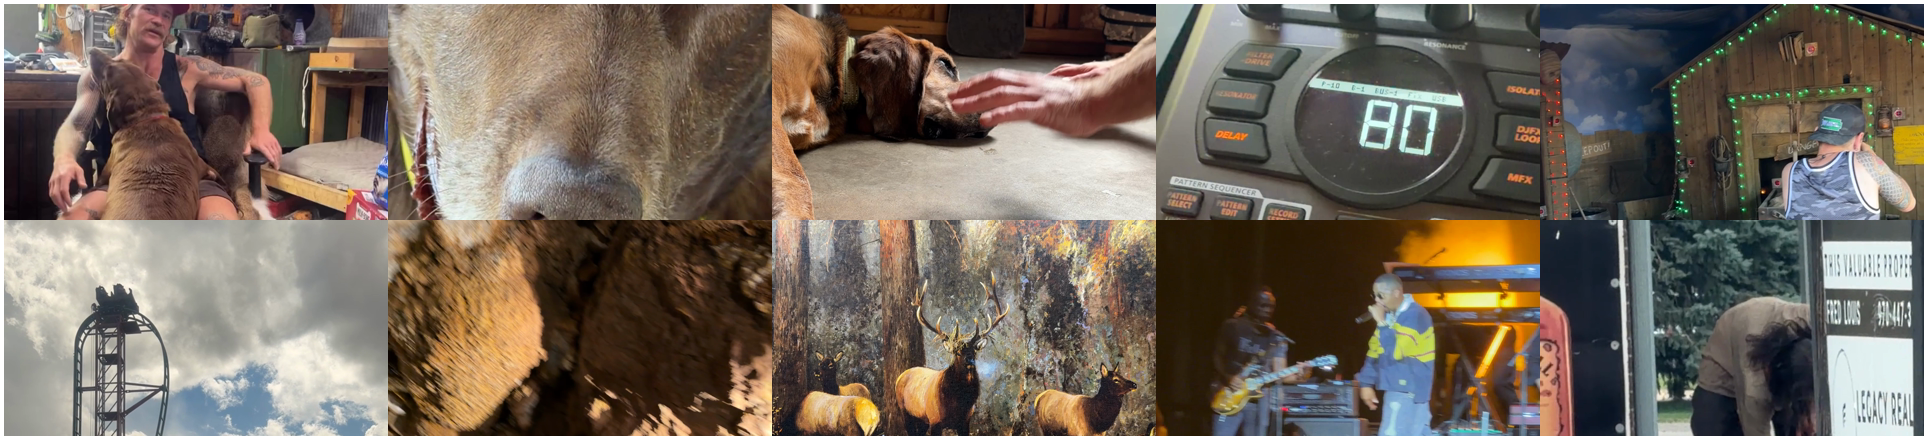
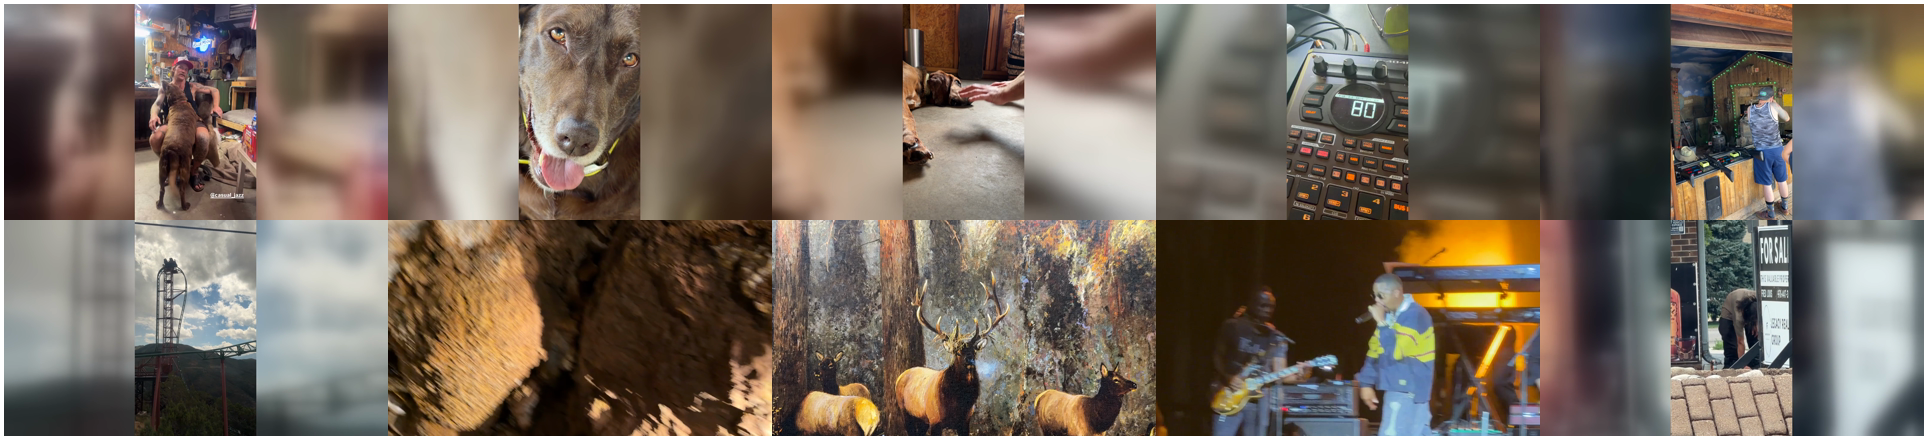
summer-reel: widescreen with the whole picture, nothing cropped; portrait clips full height, sides filled
Ryan: 'youre just cropping in the shots show the full video. start over with
the full video.' Third build. cuts.json loses y; build.py never crops.

Claude-Session: https://claude.ai/code/session_01DGLT2ecAgxNTMFMLk6kt7b

diff --git a/jobs/summer-reel/build.py b/jobs/summer-reel/build.py
@@ -3,17 +3,15 @@
 
     .venv/bin/python jobs/summer-reel/build.py [--no-compile] [--no-conform]
 
-Reads jobs/summer-reel/cuts.json ({source, start, beats, y, note} in cut order,
-start in SOURCE seconds, y the vertical centre of the 16:9 crop window for
-portrait sources, beats on the 80 BPM grid, even counts only so a beat
+Reads jobs/summer-reel/cuts.json ({source, start, beats, note} in cut order,
+start in SOURCE seconds, beats on the 80 BPM grid, even counts only so a beat
 pair is an integer 45 frames at 30 fps), conforms every used source to one
 widescreen 1280x720 30 fps H.264 stream with loudness-normalised audio, writes
 the Story IR to outputs/projects/summer-reel/story.json and compiles it.
 
-PRIOR ART: the conform is ffmpeg (scale/crop/fps/loudnorm); studio/bongpot.py
-normalize_clip does the same crop-to-fill for bongpot shots but always centres
-the window. This job needs the window placed per cut. Second film that wants
-it: move the conform into studio/ with the y parameter.
+PRIOR ART: the conform is ffmpeg (scale/gblur/overlay/fps/loudnorm).
+studio/bongpot.py normalize_clip crops to fill; this job must NOT crop.
+Second film that wants whole-picture-in-widescreen: move it into studio/.
 """
 import argparse
 import hashlib
@@ -37,17 +35,19 @@ FRAMES_PER_BEAT = FPS * 60 / BPM          # 22.5 at 30 fps, hence even beats onl
 TARGET_LUFS = -18.0
 
 
-def conform(src, dst, y=0.5):
-    """One 1280x720 widescreen stream, full frame. Landscape sources are
-    native; portrait sources scale to width and crop a 16:9 window whose
-    vertical centre is `y` (0 = top, 1 = bottom), set per cut in cuts.json so
-    the face, the dog or the coaster car stays in frame. Ryan, 2026-09-09:
-    "the one where it's long that goes across the entire screen."
-    Audio to -18 LUFS."""
-    vf = (f"scale={W}:{H}:force_original_aspect_ratio=increase,"
-          f"crop={W}:{H}:(iw-ow)/2:(ih-oh)*{y},fps=30,setsar=1")
+def conform(src, dst):
+    """One 1280x720 widescreen stream showing the WHOLE source picture.
+    Landscape sources are native. Portrait sources stand at full height in
+    the middle, the sides filled with a blurred stretch of the same frame.
+    Nothing is cropped (Ryan, 2026-09-09: "youre just cropping in the shots
+    show the full video. start over with the full video"). Audio to -18 LUFS."""
+    vf = (f"split[bg][fg];"
+          f"[bg]scale={W}:{H}:force_original_aspect_ratio=increase,"
+          f"crop={W}:{H},gblur=sigma=40[bgb];"
+          f"[fg]scale={W}:{H}:force_original_aspect_ratio=decrease[fgs];"
+          f"[bgb][fgs]overlay=(W-w)/2:(H-h)/2,fps=30,setsar=1")
     subprocess.run(
-        ["ffmpeg", "-y", "-v", "error", "-i", str(src), "-vf", vf,
+        ["ffmpeg", "-y", "-v", "error", "-i", str(src), "-filter_complex", vf,
          "-af", f"loudnorm=I={TARGET_LUFS}:TP=-1.5:LRA=11",
          "-c:v", "libx264", "-preset", "fast", "-crf", "18", "-pix_fmt", "yuv420p",
          "-r", "30", "-video_track_timescale", "30000",
@@ -98,7 +98,6 @@ def main():
 
     cuts = json.loads((JOB / "cuts.json").read_text())
     (WS / "media").mkdir(parents=True, exist_ok=True)
-    y_of = {c["source"]: c.get("y", 0.5) for c in cuts}
     for src_name in dict.fromkeys(c["source"] for c in cuts):
         src = SOURCES / f"{src_name}.MOV"
         dst = WS / "media" / f"{src_name}.mp4"
@@ -107,7 +106,7 @@ def main():
         if not src.exists():
             raise SystemExit(f"missing source: {src}")
         print(f"conform {src.name} -> {dst.relative_to(REPO)}", file=sys.stderr)
-        conform(src, dst, y_of[src_name])
+        conform(src, dst)
 
     ir, total = build_ir(cuts)
     ir_path = WS / "story.json"

diff --git a/jobs/summer-reel/README.md b/jobs/summer-reel/README.md
@@ -21,14 +21,14 @@ once the terminal was granted Photos access. Route recorded in the store as
 
 ## The cut
 
-`cuts.json` is the edit: `{source, start, beats, y, note}` in cut order, start
-in source seconds, length in beats on an 80 BPM grid, `y` the vertical centre
-of the 16:9 window cut from a portrait source (0 top, 1 bottom) (the SP-404 in clip four
+`cuts.json` is the edit: `{source, start, beats, note}` in cut order, start in
+source seconds, length in beats on an 80 BPM grid (the SP-404 in clip four
 reads "80", so that is the reel's tempo). At 30 fps a beat is 22.5 frames,
 so beat counts are even and every cut lands on an integer frame.
-`build.py` conforms each source to one 1280×720 30 fps widescreen stream,
-full frame: landscape sources native, portrait sources scaled to width and
-cropped to the 16:9 window at `y`, audio to −18 LUFS, then
+`build.py` conforms each source to one 1280×720 30 fps widescreen stream
+showing the whole picture: landscape sources native, portrait sources at full
+height in the middle with the sides filled by a blurred stretch of the same
+frame, nothing cropped, audio to −18 LUFS, then
 writes `outputs/projects/summer-reel/story.json` and compiles it.
 
 The ten in-points, in order:
@@ -54,9 +54,9 @@ call. `edit-ir.py <ws> add-music` is the verb when he names one.
 
 ## What was measured
 
-- **Timeline** `summer-reel@471f0165` (current, widescreen; the vertical
-  versions `@f8b0bab9`, `@058a7a33` and the swapped `@b9996010` remain in the
-  library): lint green, structure verify green, shown in Resolve at 1280×720
+- **Timeline** `summer-reel@6c1ef127` (current: widescreen, whole picture;
+  `@471f0165` was the cropped widescreen, `@f8b0bab9` and `@058a7a33` the
+  vertical versions, `@b9996010` the swapped cut, all still in the library): lint green, structure verify green, shown in Resolve at 1280×720
   30 fps.
 - **Native MCP server** (`mcp-readback.py`, output in
   `evidence/mcp-readback.txt`): `run_script` read the timeline back item by
@@ -85,10 +85,13 @@ three landscape clips over a blurred fill. Ryan: *"Can you not make a full
 screen video? They're all crappily cropped in."* Read as "fill the vertical
 frame", it was rebuilt with a centre crop. Wrong reading. Ryan: *"That's not
 full screen … video player resolution, YouTube … the one where it's long
-that goes across the entire screen."* Full screen means 16:9. The reel is now
-1280×720 widescreen, the sources' native ceiling; portrait clips are cropped
-to a 16:9 window placed per cut so the face, the dog, the coaster car and
-the bear stay in frame. The first reconform exposed a real defect: the IR hash did not see
+that goes across the entire screen."* Full screen means 16:9. Rebuilt as
+1280×720 widescreen with portrait clips cropped to a 16:9 window. Wrong
+again. Ryan: *"widescreen. youre just cropping in the shots show the full
+video. start over with the full video."* Third build: 1280×720 widescreen,
+nothing cropped, portrait clips whole at full height with the sides filled
+from a blur of the same frame, landscape clips native. That is the current
+reel. The first reconform exposed a real defect: the IR hash did not see
 media content, so the recompile reused the cached timeline over changed
 files. `build.py` now writes each conformed file's sha256 into the asset,
 which makes a reconform a new timeline.

diff --git a/STATE.md b/STATE.md
@@ -3,7 +3,7 @@
 
 # media-studio — STATE
 
-*Generated 2026-09-09 18:59 from git, the knowledge store, and this project's own status script. Nothing here is typed by hand, so nothing here can be stale.*
+*Generated 2026-09-09 19:03 from git, the knowledge store, and this project's own status script. Nothing here is typed by hand, so nothing here can be stale.*
 
 ## What is open
 
@@ -67,6 +67,7 @@ OPEN — plans, NOT specs. proven: false. Do not build against these.
 *From git. The full narrative lives in `docs/journal/`; commit subjects are written as search bait, so `git log --grep` is the index.*
 
 ```
+2026-09-09  e0e6aa4  summer-reel: widescreen 1280x720, the YouTube shape; portrait clips cropped to a 16:9 window placed per cut
 2026-09-09  6df5e46  STATE regenerated after summer-reel open
 2026-09-09  6805624  STATE regenerated: summer-reel full-frame, sha256 bookmark
 2026-09-09  99d9958  knowledge: bookmark, every ingest tool should write asset sha256 so a reconform is a new timeline
@@ -78,7 +79,6 @@ OPEN — plans, NOT specs. proven: false. Do not build against these.
 2026-09-09  f33a5ed  knowledge: the native Resolve MCP server works over stdio (verdict, scoped to 21.1.0.14 with a ten-second overlap)
 2026-09-09  e1ebe26  research: Resolve 21.1 native MCP server measured live, 14 tools, run_script sandbox; 20 new scripting APIs mapped to studio gaps
 2026-09-07  23b2ee2  knowledge: an rsync remote path with a space arrives at openrsync as two arguments; STATE regenerated
-2026-09-07  2dfdc60  STATE regenerated: render lane on the mini proven on the full cut
 ```
 
 *Remote: `https://github.com/blessdog/media-studio.git` — `master` is pushed.*
